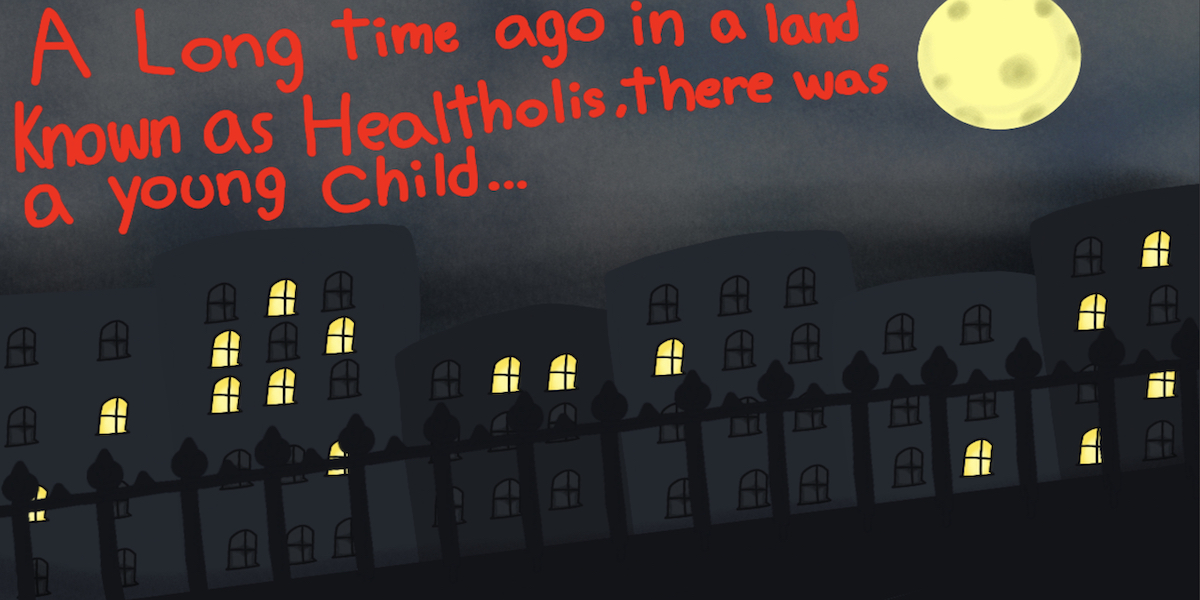
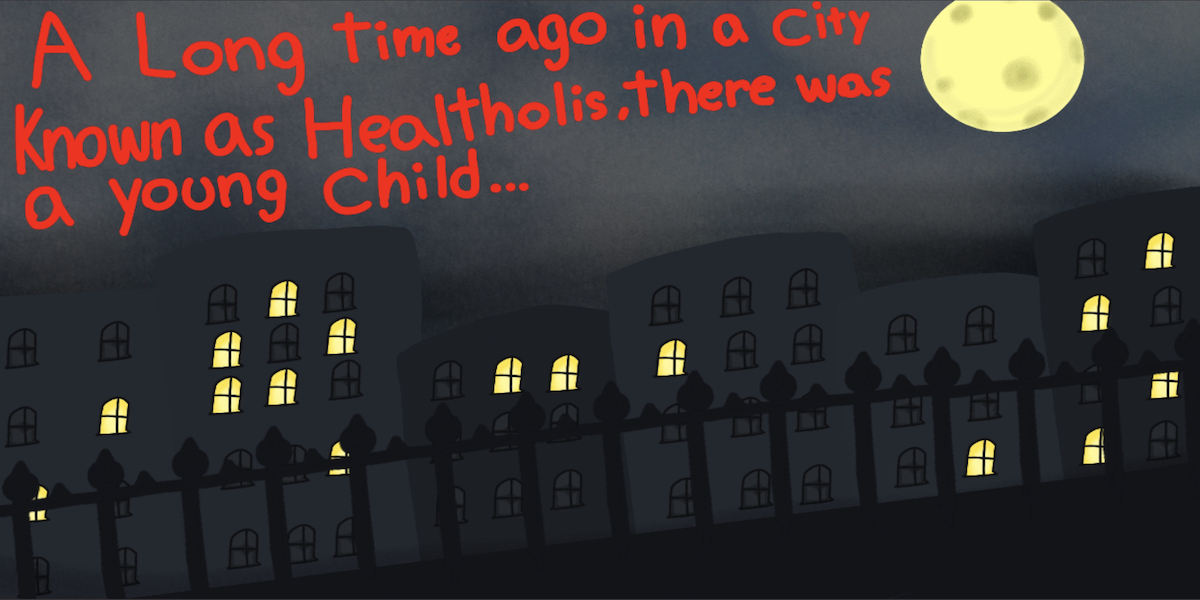
Gameoff submission

diff --git a/main.py b/main.py
@@ -37,6 +37,9 @@ INTRODUCTION = Rect((75, 250, 1050, 325))
 PREVIOUS_BOX = Rect((840,520,140,40))
 NEXT_BOX = Rect((1000,520,80,40))
 SKIP_BOX = Rect((1100,520,80,40))
+PREVIOUS_BOX2 = Rect((25,520,140,40))
+NEXT_BOX2 = Rect((185,520,80,40))
+SKIP_BOX2 = Rect((285,520,80,40))
 INSTRUCTIONS = Rect(200,100,800,400)
 PLAY_BOX = Rect((1025, 520, 150, 40))
 
@@ -73,6 +76,7 @@ obs_list.append(Actor("wide_pink_marshmallow", bottomleft=(6000,250)))
 obs_list.append(Actor("wide_white_marshmallow", bottomleft=(6500,250)))
 obs_list.append(Actor("wide_white_marshmallow", bottomleft=(6685,250)))
 obs_list.append(Actor("wide_white_marshmallow", bottomleft=(6870,250)))
+obs_list.append(Actor("wide_white_marshmallow", bottomleft=(6310,650)))
 obs_list.append(Actor("wide_pink_marshmallow", bottomleft=(6500,const.HEIGHT)))
 obs_list.append(Actor("wide_pink_marshmallow", bottomleft=(6685,const.HEIGHT)))
 obs_list.append(Actor("wide_pink_marshmallow", bottomleft=(6875,const.HEIGHT)))
@@ -80,34 +84,35 @@ obs_list.append(Actor("pink_marshmallow", bottomleft=(7065,const.HEIGHT)))
 obs_list.append(Actor("wide_white_marshmallow", bottomleft=(7500,450)))
 obs_list.append(Actor("white_marshmallow", bottomleft=(8000,200)))
 obs_list.append(Actor("white_marshmallow", bottomleft=(8000,const.HEIGHT)))
-obs_list.append(Actor("white_marshmallow", bottomleft=(8500,300)))
+obs_list.append(Actor("white_marshmallow", bottomleft=(8500,325)))
 obs_list.append(Actor("pink_marshmallow", bottomleft=(8350,const.HEIGHT)))
 obs_list.append(Actor("wide_pink_marshmallow", bottomleft=(8750,450)))
 obs_list.append(Actor("wide_white_marshmallow", bottomleft=(9500,const.HEIGHT)))
-obs_list.append(Actor("white_marshmallow", bottomleft=(8950,260)))
+obs_list.append(Actor("white_marshmallow", bottomleft=(9110,260)))
 obs_list.append(Actor("white_marshmallow", bottomleft=(10250,300)))
-obs_list.append(Actor("white_marshmallow", bottomleft=(10650,400)))
+obs_list.append(Actor("wide_white_marshmallow", bottomleft=(10550,400)))
 obs_list.append(Actor("white_marshmallow", bottomleft=(11000,300)))
 obs_list.append(Actor("white_marshmallow", bottomleft=(11500,300)))
 obs_list.append(Actor("wide_white_marshmallow", bottomleft=(12000,300)))
 obs_list.append(Actor("white_marshmallow", bottomleft=(13000,450)))
-obs_list.append(Actor("pink_marshmallow", bottomleft=(13250,250)))
-obs_list.append(Actor("wide_pink_marshmallow", bottomleft=(14200,const.HEIGHT)))
+obs_list.append(Actor("pink_marshmallow", bottomleft=(13625,250)))
+obs_list.append(Actor("wide_pink_marshmallow", bottomleft=(14200,450)))
 obs_list.append(Actor("pink_marshmallow", bottomleft=(14557,300)))
 obs_list.append(Actor("wide_white_marshmallow", bottomleft=(14457,const.HEIGHT)))
 obs_list.append(Actor("wide_white_marshmallow", bottomleft=(14642,const.HEIGHT)))
 obs_list.append(Actor("wide_pink_marshmallow", bottomleft=(15758,const.HEIGHT)))
-obs_list.append(Actor("pink_marshmallow", bottomleft=(15400,const.HEIGHT)))
-obs_list.append(Actor("wide_white_marshmallow", bottomleft=(15900,300)))
-obs_list.append(Actor("white_marshmallow", bottomleft=(16400,200)))
-obs_list.append(Actor("white_marshmallow", bottomleft=(17850,const.HEIGHT)))
+obs_list.append(Actor("pink_marshmallow", bottomleft=(15227,const.HEIGHT)))
+obs_list.append(Actor("wide_white_marshmallow", bottomleft=(16050,325)))
+obs_list.append(Actor("white_marshmallow", bottomleft=(16643,200)))
+obs_list.append(Actor("wide_white_marshmallow", bottomleft=(17850,const.HEIGHT)))
 obs_list.append(Actor("pink_marshmallow", bottomleft=(17175,460)))
 obs_list.append(Actor("wide_pink_marshmallow", bottomleft=(18345,300)))
-obs_list.append(Actor("wide_pink_marshmallow", bottomleft=(19150,const.HEIGHT)))
+obs_list.append(Actor("white_marshmallow", bottomleft=(19150,const.HEIGHT)))
 obs_list.append(Actor("wide_pink_marshmallow", bottomleft=(19800,const.HEIGHT)))
-obs_list.append(Actor("pink_marshmallow", bottomleft=(20000,350)))
+obs_list.append(Actor("pink_marshmallow", bottomleft=(20300,350)))
 obs_list.append(Actor("wide_pink_marshmallow", bottomleft=(20700,350)))
-obs_list.append(Actor("pink_marshmallow", bottomleft=(21400,300)))
+obs_list.append(Actor("pink_marshmallow", bottomleft=(21250,300)))
+obs_list.append(Actor("pink_marshmallow", bottomleft=(21700,350)))
 obs_list.append(Actor("wide_pink_marshmallow", bottomleft=(22100,450)))
 obs_list.append(Actor("white_marshmallow", bottomleft=(22700,const.HEIGHT)))
 obs_list.append(Actor("wide_white_marshmallow", bottomleft=(23250,const.HEIGHT)))
@@ -123,7 +128,6 @@ obs_list.append(Actor("wide_white_marshmallow", bottomleft=(24675,200)))
 obs_list.append(Actor("golden_marshmallow", bottomleft=(25500,const.HEIGHT)))
 
 
-#Use this to test
 #obs_list = obs_list[:3]
 #obs_list.append(Actor("golden_marshmallow", bottomleft=(900,const.HEIGHT)))
 
@@ -142,11 +146,12 @@ player.ontop = False
 player_walk_counter = 0
 player_walk_counter2 = 0
 player_fall_counter = 0
+player_jump_counter = 0
 
 # Cutscenes 
 cutscene = Actor("cutscene1", topleft=(0,0))
 doomed_world = Actor("cutscene30", topleft=(0,0))
-saved_world = Actor("cutscene33", topleft=(0,0))
+saved_world = Actor("end_image", topleft=(0,0))
 
 end_cutscene = Actor("cutscene18", topleft=(0,0))
 
@@ -165,8 +170,8 @@ def draw_title():
     screen.draw.textbox("Broccoli The Great Telling", TITLESCREEN,color = color_type,shadow=(0.5,0.5))
     screen.draw.textbox(text.intro_text_prophecy, INTRODUCTION, color = "gold",shadow=(0.5,0.5))
     if (color_type == "green") and (title_counter % 20 == 0):
-      color_type = "white"
-    elif (color_type == "white") and (title_counter % 20 == 0):
+      color_type = "red"
+    elif (color_type == "red") and (title_counter % 20 == 0):
       color_type = "green"
     else:
         pass
@@ -193,12 +198,12 @@ def draw_cutscene():
 def draw_end_cutscene():
   end_cutscene.draw()
   if end_cutscene_number != START_END_CUTSCENE:
-      screen.draw.filled_rect(PREVIOUS_BOX, "dark red")
-      screen.draw.textbox("Previous", PREVIOUS_BOX,color="red",shadow=(0.5,0.5))
-  screen.draw.filled_rect(NEXT_BOX, "dark green")
-  screen.draw.textbox("Next", NEXT_BOX,color="green",shadow=(0.5,0.5))
-  screen.draw.filled_rect(SKIP_BOX, "white")
-  screen.draw.textbox("Skip", SKIP_BOX,color="grey",shadow=(0.5,0.5))
+      screen.draw.filled_rect(PREVIOUS_BOX2, "dark red")
+      screen.draw.textbox("Previous", PREVIOUS_BOX2,color="red",shadow=(0.5,0.5))
+  screen.draw.filled_rect(NEXT_BOX2, "dark green")
+  screen.draw.textbox("Next", NEXT_BOX2,color="green",shadow=(0.5,0.5))
+  screen.draw.filled_rect(SKIP_BOX2, "white")
+  screen.draw.textbox("Skip", SKIP_BOX2,color="grey",shadow=(0.5,0.5))
 
 
 
@@ -224,14 +229,14 @@ def on_mouse_down_state_cutscene(pos):
 
 def on_mouse_down_state_end_cutscene(pos):
     global state, end_cutscene_number
-    if PREVIOUS_BOX.collidepoint(pos) and (end_cutscene_number > START_END_CUTSCENE):
+    if PREVIOUS_BOX2.collidepoint(pos) and (end_cutscene_number > START_END_CUTSCENE):
         end_cutscene_number -= 1
-    if NEXT_BOX.collidepoint(pos):
+    if NEXT_BOX2.collidepoint(pos):
         if end_cutscene_number == END_END_CUTSCENE:
             state = "state_game_won"
         else:
             end_cutscene_number += 1
-    elif SKIP_BOX.collidepoint(pos):
+    elif SKIP_BOX2.collidepoint(pos):
         state = "state_game_won"
 
 
@@ -276,7 +281,7 @@ def draw_play():
 
 
 def update_play_player():
-    global player_walk_counter, player_walk_counter2, player_fall_counter, state
+    global player_walk_counter, player_walk_counter2, player_fall_counter, state, player_jump_counter
     #if player.vy == 0:
     #this was changed because it was annoying not to be able to move in air and causes gameplay issues
     if keyboard.left:
@@ -287,7 +292,11 @@ def update_play_player():
     if player.vy > 0:
       player_fall_counter += 1
       fall_image_counter = (player_fall_counter % 5) + 1
-      player.image = "broccoli_fall" + str(fall_image_counter) 
+      player.image = "broccoli_fall" + str(fall_image_counter)
+    elif player.vy < 0:
+      player_jump_counter += 1
+      jump_image_counter = (player_jump_counter % 2) + 1
+      player.image = "broccoli_jump" + str(jump_image_counter)
     elif player.vx > 0:
       player_walk_counter += 1
       image_counter = (player_walk_counter % 4) + 1
@@ -325,22 +334,21 @@ def check_collision_pink_and_gold(player, obs_list):
 
 def draw_state_game_won():
   saved_world.draw()
-  screen.draw.text("You Won The Game!", topleft = (25,150), fontsize = 60, color = "gold", shadow = (0.5, 0.5))
+
   screen.draw.text("The great telling is complete", topleft = (25,200), fontsize = 60, color = "red", shadow = (0.5, 0.5))
   screen.draw.text("The light of the health sphere's chosen messiah", topleft = (25,250), fontsize = 60, color = "red", shadow = (0.5, 0.5))
-  screen.draw.text("shines bright on the world despite the darkness that is coming", topleft = (25,300), fontsize = 55, color = "forest green", shadow = (0.5, 0.5))
-  screen.draw.text("Thank You For Playing", topleft = (375, 350), fontsize = 60, color = "gold", shadow = (0.5, 0.5))
-  return
-
+  screen.draw.text("shines bright on the world despite the darkness that is coming", topleft = (25,300), fontsize = 55, color = "red", shadow = (0.5, 0.5))
+  screen.draw.text("Will you shut up people are trying to sleep!", topleft = (25, 350), fontsize = 60, color = "gold", shadow = (0.5, 0.5))
+  
 
 
 
 def draw_game_over():
     doomed_world.draw()
-    screen.draw.text("Broccoli's Vison has ended",topleft = (250,150), fontsize = 60, color = "red",shadow=(0.5,0.5))
-    screen.draw.text("He will never be able to fulfill",topleft = (250,200), fontsize = 60, color = "red",shadow=(0.5,0.5))
-    screen.draw.text("the prophecy and the world is doomed!", topleft = (250,250), fontsize = 60, color = "red", shadow = (0.5, 0.5))
-    screen.draw.text("JUNK DAY IS COMING! GAME OVER!",topleft = (250,300), fontsize = 60, color = "dark red",shadow=(0.5,0.5))
+    screen.draw.text("Broccoli's Vison has ended",topleft = (250,100), fontsize = 60, color = "red",shadow=(0.5,0.5))
+    screen.draw.text("He will never be able to fulfill",topleft = (250,150), fontsize = 60, color = "red",shadow=(0.5,0.5))
+    screen.draw.text("the prophecy and the world is doomed!", topleft = (250,200), fontsize = 60, color = "red", shadow = (0.5, 0.5))
+    screen.draw.text("JUNK DAY IS COMING!",topleft = (250,250), fontsize = 60, color = "red",shadow=(0.5,0.5))
     return
 
 

diff --git a/text.py b/text.py
@@ -1,10 +1,4 @@
-intro_text = ''' In this world health realted objects are alive their health protected by the great medicinic sphere however sugar cube the ex friend of the health guardian the protector of the medicinic sphere seeking revenge on his former friend destroyed the medicinic sphere leaving the world in ruins now it is up to the health guardians two brothers heart and broccoli to save the medicinic sphere by travelling through the land of ronosense all the way to the great land of kragonstan to retrieve a artifact that will restore the medicinic sphere find out the full story in the cutscenes or if your boring skip them and head to the gameplay click here to start
-'''
-
-instructions_text = ''' Space bar to jump right and left arrow key's to move left and right use the physics to your advantage by making good jumps from platform to platfrom and using level gimmicks to your advantage for example use the pink marshmallow in this level to bounce there are enemies in this level shoot them ratchet and clank style with the worst weapon broccoli broccoli will throw parts of himself into there mouths and make them see just how terrible it is to eat broccoli
-'''
-
-intro_text_prophecy = ''' In a story set far before the events of the apocalyptic junk day that will destroy the entire world. Applecartis the creator of the medicinic sphere meant to protect all living things has put a vision inside the dream of the chosen one he knows is destined to be the one true protector. The health gaurdian in this vision of Applecartis will decide the fate of the entire world
+intro_text_prophecy = ''' In a story set far before the events of the apocalyptic junk day that will destroy the entire world. In the city of Healtholis Applecartis the creator of the medicinic sphere meant to protect all living things has put a vision inside the dream of the chosen one he knows is destined to be the one true saviour of the medicinic sphere Healtholis and the world itself. The health gaurdian in whether this vision succeeds in reaching him or not Applecartis will decide the fate of the entire world
 '''
 instructions_text_prophecy = ''' Use space bar to jump 
 Use right and left arrow keys to move left and right

diff --git a/physics.py b/physics.py
@@ -41,7 +41,7 @@ def check_collision(obs_list, player):
     '''
     for obs in obs_list:
         if player.colliderect(obs):
-            if (player.bottom - 16 < obs.top) and (player.vy >= 0): # hitting the top of the obs
+            if (player.bottom - 20 < obs.top) and (player.vy >= 0): # hitting the top of the obs
                 player.vy = 0
                 player.ontop = True
                 return True
